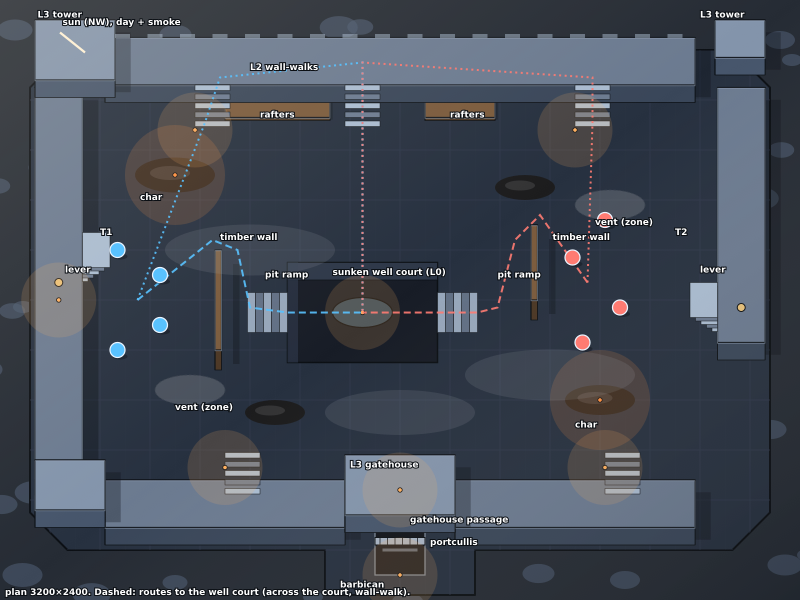
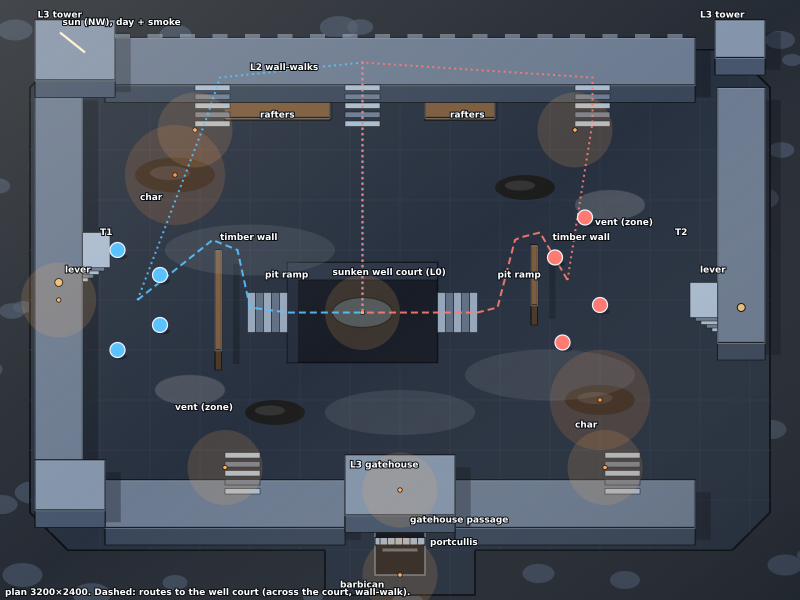
#3276: Ashen Courtyard: east barricade shortened, T2 route clears it, straight-way numbers measured, T2 seats nearer

diff --git a/docs/art/3072-ashen-courtyard.md b/docs/art/3072-ashen-courtyard.md
@@ -30,9 +30,9 @@ the place (a burned castle courtyard) is kept.
   tower ends drop to the walk.
 - **Elements:** two brass **levers**, one on each side wall-walk, at (235,1200) and (2965,1300), each work the **portcullis**
   in the gatehouse passage at (1600,2150) (shut = the barbican is sealed, open = a way round the south
-  walk). Two **breakable fallen-timber walls**, at x=860 (400 long) and x=2124 (300 long, y 900..1200), across each team's yard
+  walk). Two **breakable fallen-timber walls**, at x=860 (400 long) and x=2124 (240 long, y 980..1220), across each team's yard
   between its spawn and the pit: the yard has an exit north and south, and breaking the wall opens
-  the straight way to the pit (1000 u, 5.6 s). Zone kinds (`ZONE_KINDS`): `scorched` (four char patches, two near the north, two south)
+  the straight way to the pit (901 u, 5.0 s for T1; 830 u, 4.6 s for T2). Zone kinds (`ZONE_KINDS`): `scorched` (four char patches, two near the north, two south)
   and `vent` (two, one each side; the smoke over them is atmosphere, not a zone). Two lean-to overhangs of charred rafters on the north
   wall, different widths and places on each side. The pit, the stairs, the walls and the spawns are all off the mirror axis. Embers: warm lights on the two biggest char patches.
 - **Light:** the **Day** row (visual-style §2): sun from the NW, 50°, `#fff1d6` 0.55, ambient
@@ -43,15 +43,15 @@ the place (a burned castle courtyard) is kept.
 
 ## Routes and balance (base speed 180 u/s)
 
-Spawns: four seats a side in the west and east yard (T1 around (550,1200), T2 around (2350,1130), nearer the pit since the pit sits west of centre).
+Spawns: four seats a side in the west and east yard (T1 around (550,1200), T2 around (2270,1120), nearer the pit since the pit sits west of centre).
 The centre is the well court, (1450,1250).
 
 | Route                                                                        | Length        | Walk                    |
 | ---------------------------------------------------------------------------- | ------------- | ----------------------- |
 | round the timber wall to the pit ramp (walls up)                             | 1179 / 1293 u | 6.5 / 7.2 s (T1 / T2)   |
-| wall-walk (north stair, along the walk, centre stair down, south to the pit) | 2388 / 2602 u | 13.3 / 14.5 s (T1 / T2) |
+| wall-walk (north stair, along the walk, centre stair down, south to the pit) | 2388 / 2601 u | 13.3 / 14.4 s (T1 / T2) |
 
-The teams are within 9 % of each other on both, the east the longer: the build card must bench it. The wall-walk is the long way on purpose: it is the
+The teams are within 9 % of each other on both, the east the longer on the wall-walk, shorter on the straight way: the build card must bench it. The wall-walk is the long way on purpose: it is the
 high-ground flank, and the lever and the breakable wall decide how soon a team commits to it.
 High ground within half the map of either spawn is its own half of the wall-walk plus its two towers,
 of unequal area (the west keeps the bigger tower); the two halves meet at the north walk's centre stair, so neither side owns a tower the
